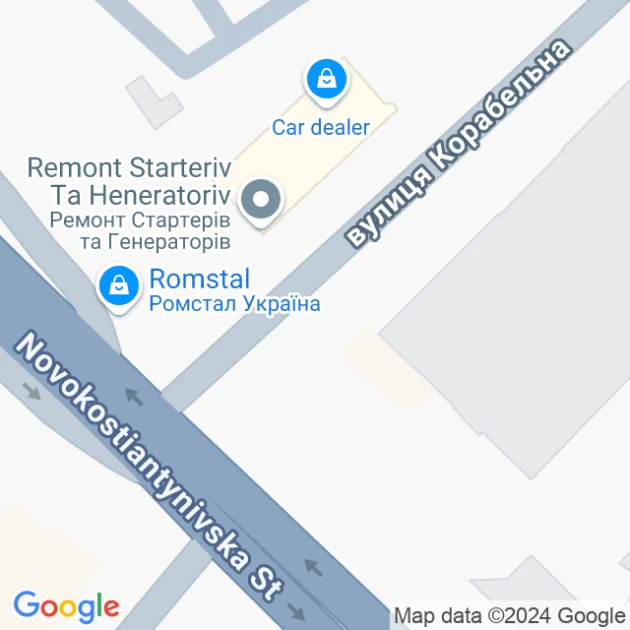
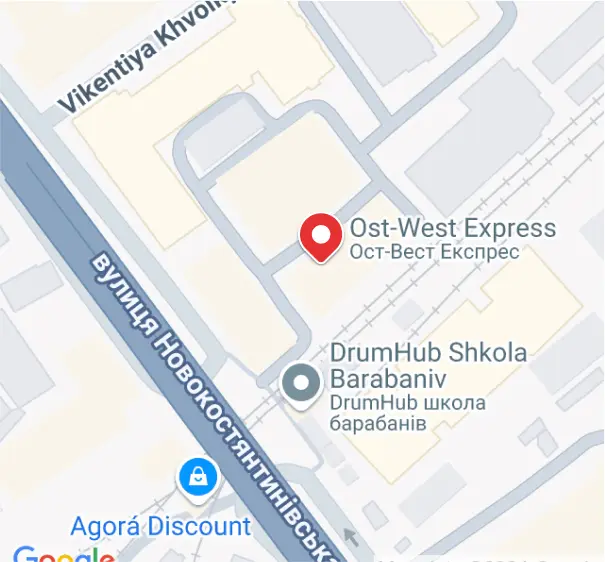
Update contacts section and header (#25)
* added messenger icons

* added contact icons

* added messages and constants for contacts section

* added contacts section

* renamed folder

* renamed component

* fixed sorting imports

* renamed icon properties

* updated map

* refactoring burger menu buttons

* updated header menu styles

* updated imports

* added hover effects for locale switcher

diff --git a/src/components/shared/icons/IconLoader.tsx b/src/components/shared/icons/IconLoader.tsx
@@ -11,10 +11,10 @@ export default function IconLoader({ className }: IconProps) {
       className={className}
       aria-label="icon loader"
     >
-      <g clip-path="url(#clip0_205_2265)">
+      <g clipPath="url(#clip0_205_2265)">
         <path
-          fill-rule="evenodd"
-          clip-rule="evenodd"
+          fillRule="evenodd"
+          clipRule="evenodd"
           d="M11 16C11.5304 16 12.0391 16.2107 12.4142 16.5858C12.7893 16.9609 13 17.4696 13 18C13 18.5304 12.7893 19.0391 12.4142 19.4142C12.0391 19.7893 11.5304 20 11 20C10.4696 20 9.96086 19.7893 9.58579 19.4142C9.21071 19.0391 9 18.5304 9 18C9 17.4696 9.21071 16.9609 9.58579 16.5858C9.96086 16.2107 10.4696 16 11 16ZM4.741 13C5.40404 13 6.03993 13.2634 6.50877 13.7322C6.97761 14.2011 7.241 14.837 7.241 15.5C7.241 16.163 6.97761 16.7989 6.50877 17.2678C6.03993 17.7366 5.40404 18 4.741 18C4.07796 18 3.44207 17.7366 2.97323 17.2678C2.50439 16.7989 2.241 16.163 2.241 15.5C2.241 14.837 2.50439 14.2011 2.97323 13.7322C3.44207 13.2634 4.07796 13 4.741 13ZM16.319 13.5C16.8494 13.5 17.3581 13.7107 17.7332 14.0858C18.1083 14.4609 18.319 14.9696 18.319 15.5C18.319 16.0304 18.1083 16.5391 17.7332 16.9142C17.3581 17.2893 16.8494 17.5 16.319 17.5C15.7886 17.5 15.2799 17.2893 14.9048 16.9142C14.5297 16.5391 14.319 16.0304 14.319 15.5C14.319 14.9696 14.5297 14.4609 14.9048 14.0858C15.2799 13.7107 15.7886 13.5 16.319 13.5ZM18.5 9.319C18.8978 9.319 19.2794 9.47704 19.5607 9.75834C19.842 10.0396 20 10.4212 20 10.819C20 11.2168 19.842 11.5984 19.5607 11.8797C19.2794 12.161 18.8978 12.319 18.5 12.319C18.1022 12.319 17.7206 12.161 17.4393 11.8797C17.158 11.5984 17 11.2168 17 10.819C17 10.4212 17.158 10.0396 17.4393 9.75834C17.7206 9.47704 18.1022 9.319 18.5 9.319ZM2.5 6C3.16304 6 3.79893 6.26339 4.26777 6.73223C4.73661 7.20107 5 7.83696 5 8.5C5 9.16304 4.73661 9.79893 4.26777 10.2678C3.79893 10.7366 3.16304 11 2.5 11C1.83696 11 1.20107 10.7366 0.732233 10.2678C0.263392 9.79893 0 9.16304 0 8.5C0 7.83696 0.263392 7.20107 0.732233 6.73223C1.20107 6.26339 1.83696 6 2.5 6ZM17.786 5.207C18.0512 5.207 18.3056 5.31236 18.4931 5.49989C18.6806 5.68743 18.786 5.94178 18.786 6.207C18.786 6.47222 18.6806 6.72657 18.4931 6.91411C18.3056 7.10164 18.0512 7.207 17.786 7.207C17.5208 7.207 17.2664 7.10164 17.0789 6.91411C16.8914 6.72657 16.786 6.47222 16.786 6.207C16.786 5.94178 16.8914 5.68743 17.0789 5.49989C17.2664 5.31236 17.5208 5.207 17.786 5.207ZM8 0C8.79565 0 9.55871 0.31607 10.1213 0.87868C10.6839 1.44129 11 2.20435 11 3C11 3.79565 10.6839 4.55871 10.1213 5.12132C9.55871 5.68393 8.79565 6 8 6C7.20435 6 6.44129 5.68393 5.87868 5.12132C5.31607 4.55871 5 3.79565 5 3C5 2.20435 5.31607 1.44129 5.87868 0.87868C6.44129 0.31607 7.20435 0 8 0ZM15.5 3C15.6326 3 15.7598 3.05268 15.8536 3.14645C15.9473 3.24021 16 3.36739 16 3.5C16 3.63261 15.9473 3.75979 15.8536 3.85355C15.7598 3.94732 15.6326 4 15.5 4C15.3674 4 15.2402 3.94732 15.1464 3.85355C15.0527 3.75979 15 3.63261 15 3.5C15 3.36739 15.0527 3.24021 15.1464 3.14645C15.2402 3.05268 15.3674 3 15.5 3Z"
           fill="#0B70BC"
         />

diff --git a/src/components/shared/icons/IconViber.tsx b/src/components/shared/icons/IconViber.tsx
@@ -13,7 +13,7 @@ export default function IconViber({ className }: IconProps) {
         transition duration-300 ease-out ${className}`}
     >
       <rect width="40" height="40" rx="20" fill="currentColor" />
-      <g clip-path="url(#clip0_323_14671)">
+      <g clipPath="url(#clip0_323_14671)">
         <path
           d="M28.8124 10.3392C28.2171 9.79081 25.8077 8.04237 20.4358 8.01894C20.4358 8.01894 14.103 7.63925 11.0187 10.4705C9.30303 12.1861 8.69834 14.7033 8.63271 17.8205C8.56709 20.9377 8.4874 26.7783 14.1171 28.3627H14.1218L14.1171 30.7814C14.1171 30.7814 14.0796 31.7611 14.7265 31.958C15.5046 32.2017 15.964 31.4564 16.7093 30.6549C17.1171 30.2142 17.6796 29.5674 18.1062 29.0752C21.9593 29.3986 24.9171 28.658 25.2546 28.5502C26.0327 28.2971 30.4343 27.7346 31.1468 21.8939C31.8874 15.8658 30.7905 12.0596 28.8124 10.3392ZM29.464 21.4533C28.8593 26.3283 25.2921 26.6377 24.6358 26.8486C24.3546 26.9377 21.753 27.5846 18.4858 27.3736C18.4858 27.3736 16.0483 30.3127 15.289 31.0767C15.0405 31.3252 14.7687 31.3017 14.7733 30.8096C14.7733 30.4861 14.7921 26.7924 14.7921 26.7924C14.7874 26.7924 14.7874 26.7924 14.7921 26.7924C10.0202 25.4705 10.3015 20.4971 10.353 17.8955C10.4046 15.2939 10.8968 13.1611 12.3499 11.7267C14.9608 9.35956 20.3374 9.71112 20.3374 9.71112C24.8796 9.72987 27.0546 11.0986 27.5608 11.558C29.2343 12.9924 30.0874 16.4236 29.464 21.4533ZM22.9483 17.6658C22.9671 18.0689 22.3624 18.0971 22.3437 17.6939C22.2921 16.6627 21.8093 16.1611 20.8155 16.1049C20.4124 16.0814 20.4499 15.4767 20.8483 15.5002C22.1562 15.5705 22.8827 16.3205 22.9483 17.6658ZM23.8999 18.1955C23.9468 16.208 22.7046 14.6517 20.3468 14.4783C19.9483 14.4502 19.9905 13.8455 20.389 13.8736C23.1077 14.0705 24.5562 15.9408 24.5046 18.2096C24.4999 18.6127 23.8905 18.5939 23.8999 18.1955ZM26.103 18.8236C26.1077 19.2267 25.4983 19.2314 25.4983 18.8283C25.4702 15.008 22.9249 12.9267 19.8358 12.9033C19.4374 12.8986 19.4374 12.2986 19.8358 12.2986C23.2905 12.3221 26.0702 14.708 26.103 18.8236ZM25.5733 23.4221V23.4314C25.0671 24.3221 24.1202 25.3064 23.1452 24.9924L23.1358 24.9783C22.1468 24.7017 19.8171 23.5017 18.3452 22.3299C17.5858 21.7299 16.8921 21.0221 16.3577 20.3424C15.8749 19.7377 15.3874 19.0205 14.914 18.158C13.9155 16.3533 13.6952 15.5471 13.6952 15.5471C13.3812 14.5721 14.3608 13.6252 15.2562 13.1189H15.2655C15.6968 12.8939 16.1093 12.9689 16.3858 13.3017C16.3858 13.3017 16.9671 13.9955 17.2155 14.3377C17.4499 14.6564 17.764 15.1674 17.928 15.4533C18.214 15.9642 18.0358 16.4846 17.7546 16.7002L17.1921 17.1502C16.9062 17.3799 16.9437 17.8064 16.9437 17.8064C16.9437 17.8064 17.778 20.9611 20.8952 21.758C20.8952 21.758 21.3218 21.7955 21.5515 21.5096L22.0015 20.9471C22.2171 20.6658 22.7374 20.4877 23.2483 20.7736C23.9374 21.1627 24.814 21.7674 25.3952 22.3158C25.7233 22.583 25.7983 22.9908 25.5733 23.4221Z"
           fill="#FFFEFA"

diff --git a/src/components/shared/header/BurgerMenuMobTab.tsx b/src/components/shared/header/BurgerMenuMobTab.tsx
@@ -3,8 +3,9 @@ import React from "react";
 
 import { Locale } from "@/types/locale";
 
+import IconButton from "../buttons/IconButton";
 import Container from "../container/Container";
-import BurgerMenuButtonClose from "./burgerMenuButtons/BurgerMenuButtonClose";
+import IconClose from "../icons/IconClose";
 import CallUsButton from "./callUs/CallUsButton";
 import LocaleSwitcher from "./LocaleSwitcher";
 import MenuList from "./menuList/MenuList";
@@ -23,14 +24,15 @@ export default function BurgerMenuMobTab({
     <div
       className={`${
         isHeaderMenuOpened ? "translate-x-0 no-doc-scroll" : "translate-x-full"
-      } absolute top-0 right-0 z-50 w-[100vw] h-[100dvh] tab:min-w-[360px] tab:h-[666px] tab:w-[40%] bg-headerGradient transition-transform duration-[600ms]`}
+      } absolute top-0 right-0 z-50 w-[100vw] h-[100dvh] tab:min-w-[360px] tab:h-[666px] tab:w-[40%] bg-headerGradient 
+      transition-transform duration-[600ms] overflow-y-auto`}
     >
       <Container>
-        <div className="flex justify-between items-center h-[72px] mb-8">
+        <div className="flex justify-between items-center h-[72px]">
           <LocaleSwitcher locale={locale as Locale} />
-          <BurgerMenuButtonClose toggleHeaderMenuOpen={closeMenu} />
+          <IconButton handleClick={closeMenu}>{<IconClose />}</IconButton>
         </div>
-        <div className="flex flex-col items-center gap-y-16">
+        <div className="flex flex-col items-center gap-y-16 py-8">
           <MenuList closeMenu={closeMenu} />
           <CallUsButton closeMenu={closeMenu} />
         </div>

diff --git a/src/components/shared/icons/IconWhatsApp.tsx b/src/components/shared/icons/IconWhatsApp.tsx
@@ -26,8 +26,8 @@ export default function IconWhatsApp({ className }: IconProps) {
         fill="#FFFEFA"
       />
       <path
-        fill-rule="evenodd"
-        clip-rule="evenodd"
+        fillRule="evenodd"
+        clipRule="evenodd"
         d="M17.0334 14.3646C16.8075 13.8629 16.5699 13.8514 16.3556 13.8456C16.1818 13.8398 15.979 13.8398 15.7762 13.8398C15.5735 13.8398 15.249 13.9148 14.9709 14.2146C14.6928 14.5145 13.9165 15.241 13.9165 16.7229C13.9165 18.199 14.9999 19.6289 15.1505 19.8307C15.3012 20.0325 17.242 23.1635 20.3068 24.3686C22.8559 25.3719 23.3774 25.1701 23.9278 25.1182C24.4781 25.0663 25.7122 24.3917 25.9671 23.6882C26.2162 22.9847 26.2162 22.3851 26.1409 22.2582C26.0656 22.1314 25.8628 22.0564 25.5615 21.9065C25.2603 21.7566 23.7771 21.0301 23.499 20.9263C23.2209 20.8283 23.0182 20.7764 22.8212 21.0762C22.6184 21.376 22.0391 22.0506 21.8652 22.2525C21.6914 22.4543 21.5118 22.4773 21.2106 22.3274C20.9093 22.1775 19.936 21.8604 18.7831 20.834C17.8851 20.0383 17.2768 19.0523 17.103 18.7525C16.9291 18.4527 17.0856 18.2912 17.2362 18.1413C17.3695 18.0087 17.5375 17.7896 17.6881 17.6166C17.8387 17.4436 17.8909 17.3168 17.9894 17.1149C18.0879 16.9131 18.0415 16.7401 17.9662 16.5902C17.8909 16.4461 17.2999 14.9585 17.0334 14.3646Z"
         fill="#FFFEFA"
       />

diff --git a/src/components/shared/icons/IconTelegram.tsx b/src/components/shared/icons/IconTelegram.tsx
@@ -14,8 +14,8 @@ export default function IconTelegram({ className }: IconProps) {
     >
       <rect width="40" height="40" rx="20" fill="currentColor" />
       <path
-        fill-rule="evenodd"
-        clip-rule="evenodd"
+        fillRule="evenodd"
+        clipRule="evenodd"
         d="M9.05368 19.7889C14.8841 17.2487 18.7719 15.574 20.7172 14.7649C26.2715 12.4547 27.4256 12.0534 28.1778 12.0402C28.3433 12.0373 28.7132 12.0783 28.9528 12.2727C29.1551 12.4369 29.2108 12.6587 29.2375 12.8143C29.2641 12.97 29.2973 13.3246 29.2709 13.6017C28.9699 16.7641 27.6676 24.4386 27.005 27.9806C26.7246 29.4794 26.1726 29.9819 25.6382 30.0311C24.4767 30.138 23.5948 29.2635 22.4699 28.5261C20.7096 27.3723 19.7152 26.654 18.0066 25.528C16.0319 24.2268 17.312 23.5116 18.4373 22.3428C18.7318 22.0369 23.8492 17.3823 23.9482 16.96C23.9606 16.9072 23.9721 16.7104 23.8551 16.6065C23.7382 16.5025 23.5656 16.5381 23.4411 16.5663C23.2645 16.6064 20.4525 18.465 15.0049 22.1423C14.2067 22.6904 13.4838 22.9574 12.836 22.9434C12.1219 22.928 10.7483 22.5397 9.72709 22.2077C8.47459 21.8006 7.47913 21.5853 7.56581 20.8939C7.61096 20.5337 8.10692 20.1654 9.05368 19.7889Z"
         fill="#FFFEFA"
       />

diff --git a/src/components/shared/header/HeaderMobTab.tsx b/src/components/shared/header/HeaderMobTab.tsx
@@ -3,8 +3,9 @@
 import { useState } from "react";
 
 import Backdrop from "../backdrop.tsx/Backdrop";
+import IconButton from "../buttons/IconButton";
 import Container from "../container/Container";
-import BurgerMenuButtonOpen from "./burgerMenuButtons/BurgerMenuButtonOpen";
+import IconBurgerMenu from "../icons/IconBurger";
 import BurgerMenuMobTab from "./BurgerMenuMobTab";
 import CallUsButton from "./callUs/CallUsButton";
 import CallUsLinkMob from "./callUs/CallUsLinkMob";
@@ -20,10 +21,9 @@ export default function HeaderMobTab() {
         <div className="flex items-center justify-between min-w-[208px] w-[39%]">
           <CallUsButton className="hidden tab:block" />
           <CallUsLinkMob />
-          <BurgerMenuButtonOpen
-            isHeaderMenuOpened={isHeaderMenuOpened}
-            openMenu={() => setIsHeaderMenuOpened(true)}
-          />
+          <IconButton handleClick={() => setIsHeaderMenuOpened(true)}>
+            {<IconBurgerMenu />}
+          </IconButton>
           <BurgerMenuMobTab
             isHeaderMenuOpened={isHeaderMenuOpened}
             closeMenu={() => setIsHeaderMenuOpened(false)}

diff --git a/tailwind.config.ts b/tailwind.config.ts
@@ -15,6 +15,7 @@ const config: Config = {
       screens: {
         tab: "768px",
         laptop: "1280px",
+        pc: "1440px",
       },
       colors: {
         yellow: "#FDBD00",
@@ -65,6 +66,8 @@ const config: Config = {
           "linear-gradient(270.01deg, #83B6E3 0%, #84B8E4 11.64%, #82B6E3 25.31%, #84B7E3 37.78%, #87B8E4 50.6%, #82B5E1 77.04%, #76ADDB 99.87%)",
         blueGradient:
           "radial-gradient(50% 50% at 50% 50%, #C1DDF8 0%, rgba(193, 221, 248, 0) 100%)",
+        whiteGradient:
+          "radial-gradient(50% 50% at 50% 50%, #FFFFFF 0%, rgba(255, 255, 255, 0) 100%)",
       },
       keyframes: {
         rotate: {

diff --git a/src/components/shared/buttons/IconButton.tsx b/src/components/shared/buttons/IconButton.tsx
@@ -1,0 +1,18 @@
+interface IconButtonProps {
+  handleClick: () => void;
+  children: React.JSX.Element;
+}
+
+export default function IconButton({ handleClick, children }: IconButtonProps) {
+  return (
+    <button
+      aria-label="open menu button"
+      type="button"
+      onClick={handleClick}
+      className="relative text-white outline-none before:content-[''] before:absolute before:-z-10 before:top-0 before:left-0 before:rounded-full before:size-full 
+                before:bg-blueGradient before:opacity-0 before:transition before:duration-300 before:ease-out active:before:opacity-100"
+    >
+      {children}
+    </button>
+  );
+}

diff --git a/src/components/shared/header/callUs/CallUsLinkMob.tsx b/src/components/shared/header/callUs/CallUsLinkMob.tsx
@@ -8,7 +8,7 @@ export default function CallUsLinkMob() {
       href={`tel:+38${PHONE_THIRD.replace(/\D/g, "")}`}
       target="_blank"
       rel="noopener noreferrer nofollow"
-      className="group tab:hidden flex items-center gap-x-1 text-white outline-none"
+      className="group tab:hidden flex items-center gap-x-1 text-white outline-none laptop:hover:text-blue focus-visible:text-blue active:text-blue transition duration-300 ease-out"
     >
       <IconPhone className="text-blue transition duration-300 ease-out group:active:text-white" />
       {PHONE_THIRD}

diff --git a/src/components/shared/header/LocaleSwitcher.tsx b/src/components/shared/header/LocaleSwitcher.tsx
@@ -21,7 +21,7 @@ export default function LocaleSwitcher({ locale }: { locale: Locale }) {
         <li key={curLocale}>
           <button
             onClick={() => handleLocaleChange(curLocale)}
-            className={`font-gogh text-baseb outline-none ${
+            className={`font-gogh text-baseb outline-none laptop:hover:text-blue focus-visible:text-blue active:text-blue transition duration-300 ease-out ${
               curLocale === locale ? "text-blue" : "text-white"
             }`}
           >

diff --git a/src/components/home/contacts/Contacts.tsx b/src/components/home/contacts/Contacts.tsx
@@ -19,7 +19,7 @@ export default function Contacts() {
           alt="map"
           width="528"
           height="501"
-          className="w-full h-auto max-w-[528px] tab:w-[46%] object-cover object-center"
+          className="w-full h-auto aspect-[528/501] max-w-[630px] tab:w-[46%] tab:h-[501px] laptop:min-w-[528px] pc:min-w-[490px] object-cover object-center"
         />
       </div>
     </Section>

diff --git a/src/components/home/contacts/contactsList/Address.tsx b/src/components/home/contacts/contactsList/Address.tsx
@@ -8,7 +8,7 @@ import { ADDRESS_LINK } from "@/constants/constants";
 export default function Address() {
   const t = useTranslations("contacts");
   return (
-    <li className="flex items-start gap-3">
+    <li className="flex items-start gap-3 pc:w-[48%]">
       <Image
         src="/images/icons/map.svg"
         alt="map icon"
